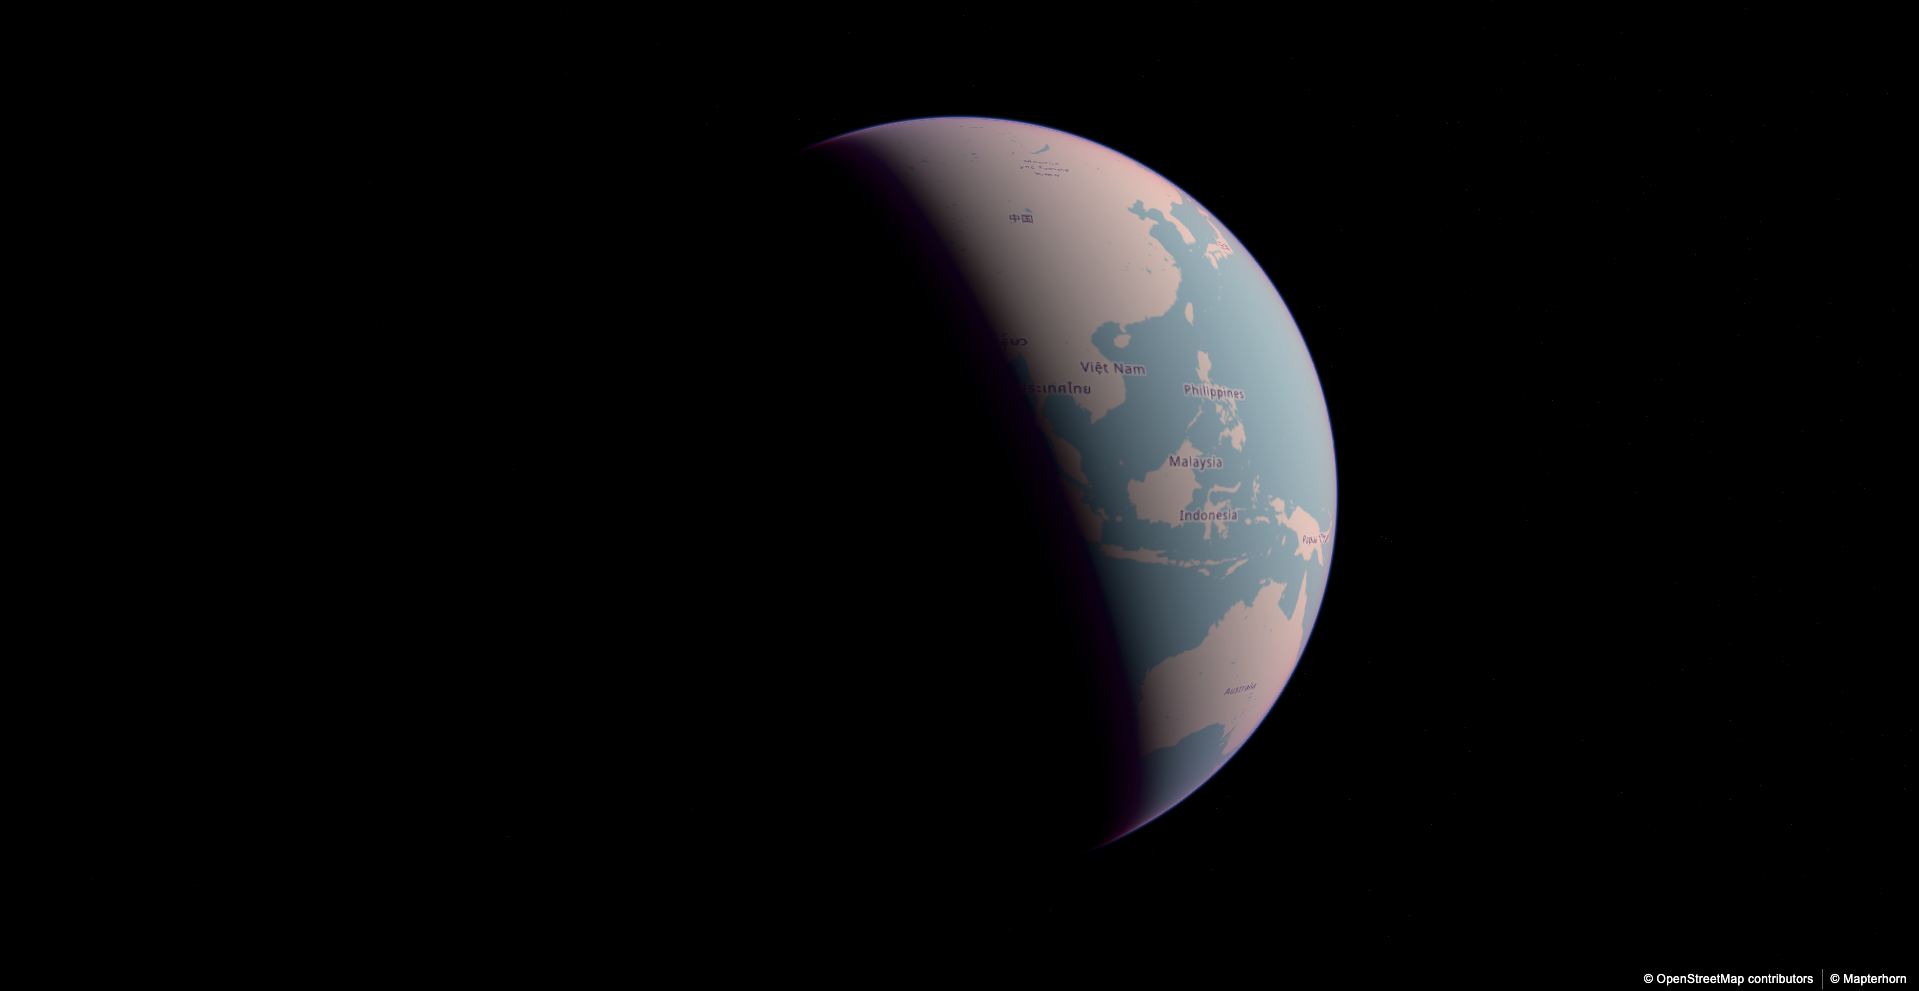
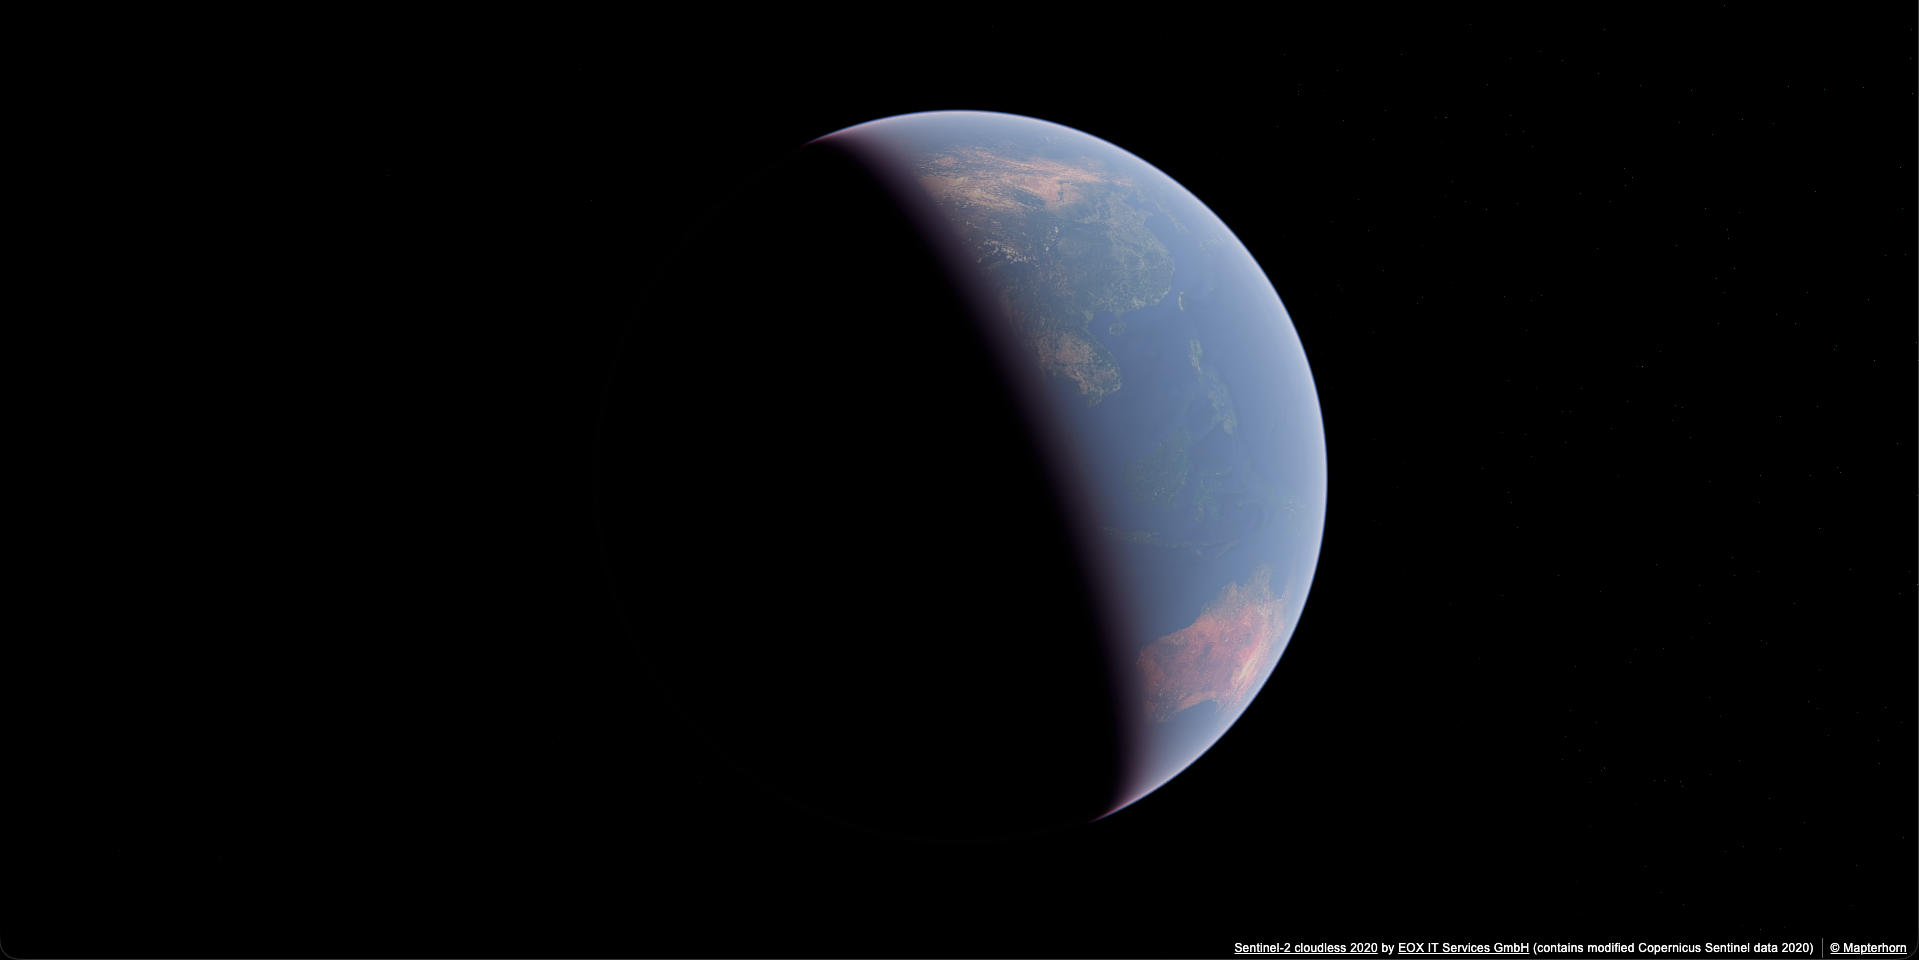
update

Changed region(s): [[0.4304, 0.0938, 0.7071, 0.8438], [0.6456, 0.9688, 1.0, 1.0]]

diff --git a/src/attribution.ts b/src/attribution.ts
@@ -1,6 +1,7 @@
 type Attribution = {
   url: string;
-  label: string;
+  label?: string;
+  html?: string;
 }
 
 export const drawAttributions = (attributions: Attribution[]) => {
@@ -22,21 +23,24 @@ export const drawAttributions = (attributions: Attribution[]) => {
   });
 
   attributions.forEach((attr, i) => {
-    const a = document.createElement("a");
-    a.href = attr.url;
-    a.target = "_blank";
-    a.rel = "noopener noreferrer";
-    a.textContent = attr.label;
-    Object.assign(a.style, {
+    const elm = attr.label ? document.createElement("a") : document.createElement("span");
+
+    if (elm instanceof HTMLAnchorElement) {
+      elm.href = attr.url;
+      elm.target = "_blank";
+      elm.rel = "noopener noreferrer";
+      elm.textContent = attr.label ?? "";
+    } else {
+      elm.innerHTML = attr.html ?? "";
+      elm.querySelectorAll("a").forEach(a => a.style.color = "#fff");
+    }
+    Object.assign(elm.style, {
       color: "#fff",
-      textDecoration: "none",
       padding: "4px 8px",
       borderLeft: i === 0 ? "none" : "1px solid rgba(255, 255, 255, 0.4)",
       whiteSpace: "nowrap",
     });
-    a.addEventListener("mouseenter", () => { a.style.textDecoration = "underline"; });
-    a.addEventListener("mouseleave", () => { a.style.textDecoration = "none"; });
-    container.appendChild(a);
+    container.appendChild(elm);
   });
 
   document.body.appendChild(container);

diff --git a/src/main.ts b/src/main.ts
@@ -1,6 +1,5 @@
 import ThreeView, { TERRARIUM_ELEVATION_DECODER } from "@navara/three";
 import { DefaultDescriptions, DefaultPlugin } from "@navara/three_default_plugin";
-import { ToneMappingMode } from "postprocessing";
 import { drawAttributions } from "./attribution";
 
 const view = new ThreeView<DefaultDescriptions>();
@@ -15,26 +14,23 @@ view.addPlugin(defaultPlugin);
 await view.init();
 
 // Setup scene
-
-const defaults = defaultPlugin.addDefaultPhotorealScene();
-defaults.toneMapping.update({
-  toneMapping: {
-    mode: ToneMappingMode.NEUTRAL
-  }
-});
+defaultPlugin.addDefaultPhotorealScene();
 
 view.atmosphere.date.setHours(8);
-view.toneMappingExposure = 3;
+view.toneMappingExposure = 10;
 
 // Layer declarations
 
 view.addLayer({
   type: "tiles",
   data: {
-    url: "https://tile.openstreetmap.org/{z}/{x}/{y}.png",
+    url: "https://tiles.maps.eox.at/wmts?layer=s2cloudless-2020_3857&style=default" +
+      "&tilematrixset=g&Service=WMTS&Request=GetTile" +
+      "&Version=1.0.0&Format=image%2Fjpeg" +
+      "&TileMatrix={z}&TileCol={x}&TileRow={y}",
   },
   rasterTile: {
-    maxZoom: 18,
+    maxZoom: 16,
   },
 });
 
@@ -61,8 +57,6 @@ view.addLayer({
     maxZoom: 17,
     minZoom: 5,
     elevationDecoder: TERRARIUM_ELEVATION_DECODER(),
-    castShadow: true,
-    receiveShadow: true,
     tileSize: 512,
   },
 });
@@ -70,7 +64,7 @@ view.addLayer({
 drawAttributions([
   {
     url: "https://www.openstreetmap.org/copyright",
-    label: "© OpenStreetMap contributors"
+    html: `<a href="https://s2maps.eu">Sentinel-2 cloudless 2020</a> by <a href="https://eox.at">EOX IT Services GmbH</a> (contains modified Copernicus Sentinel data 2020)`
   },
   {
     url: "https://mapterhorn.com/attribution",

diff --git a/README.md b/README.md
@@ -1,5 +1,7 @@
 # Navara Developer Workshop
 
+[API document](https://navara-docs.netlify.app/)
+
 ## Preparation
 
 1. `pnpm i`